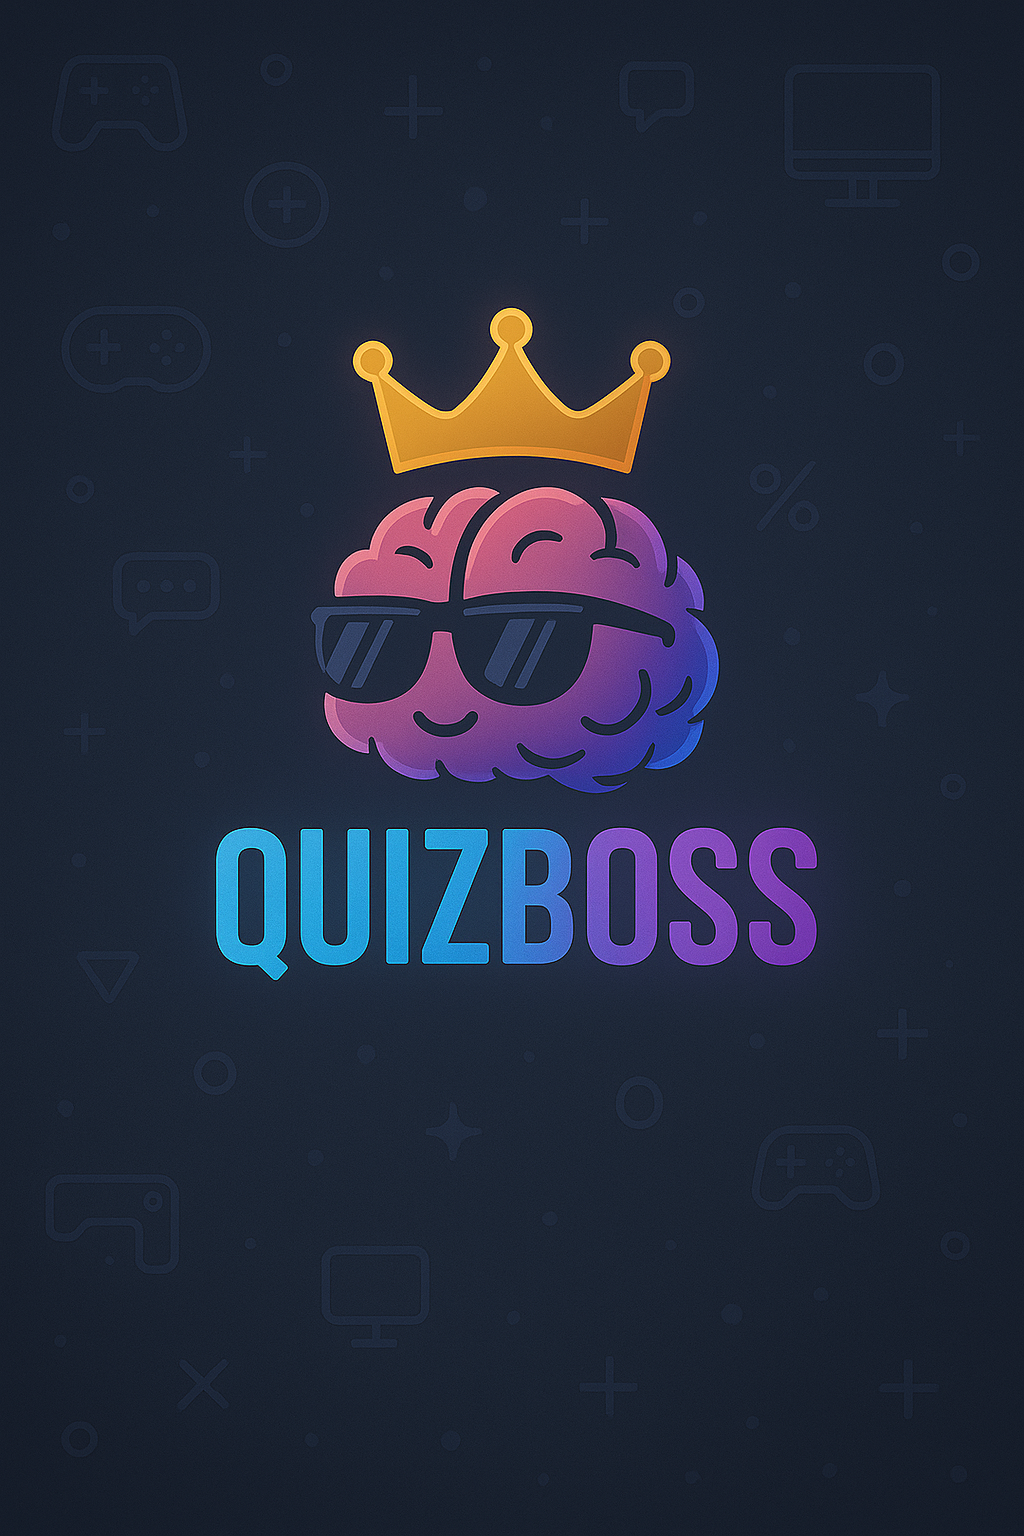
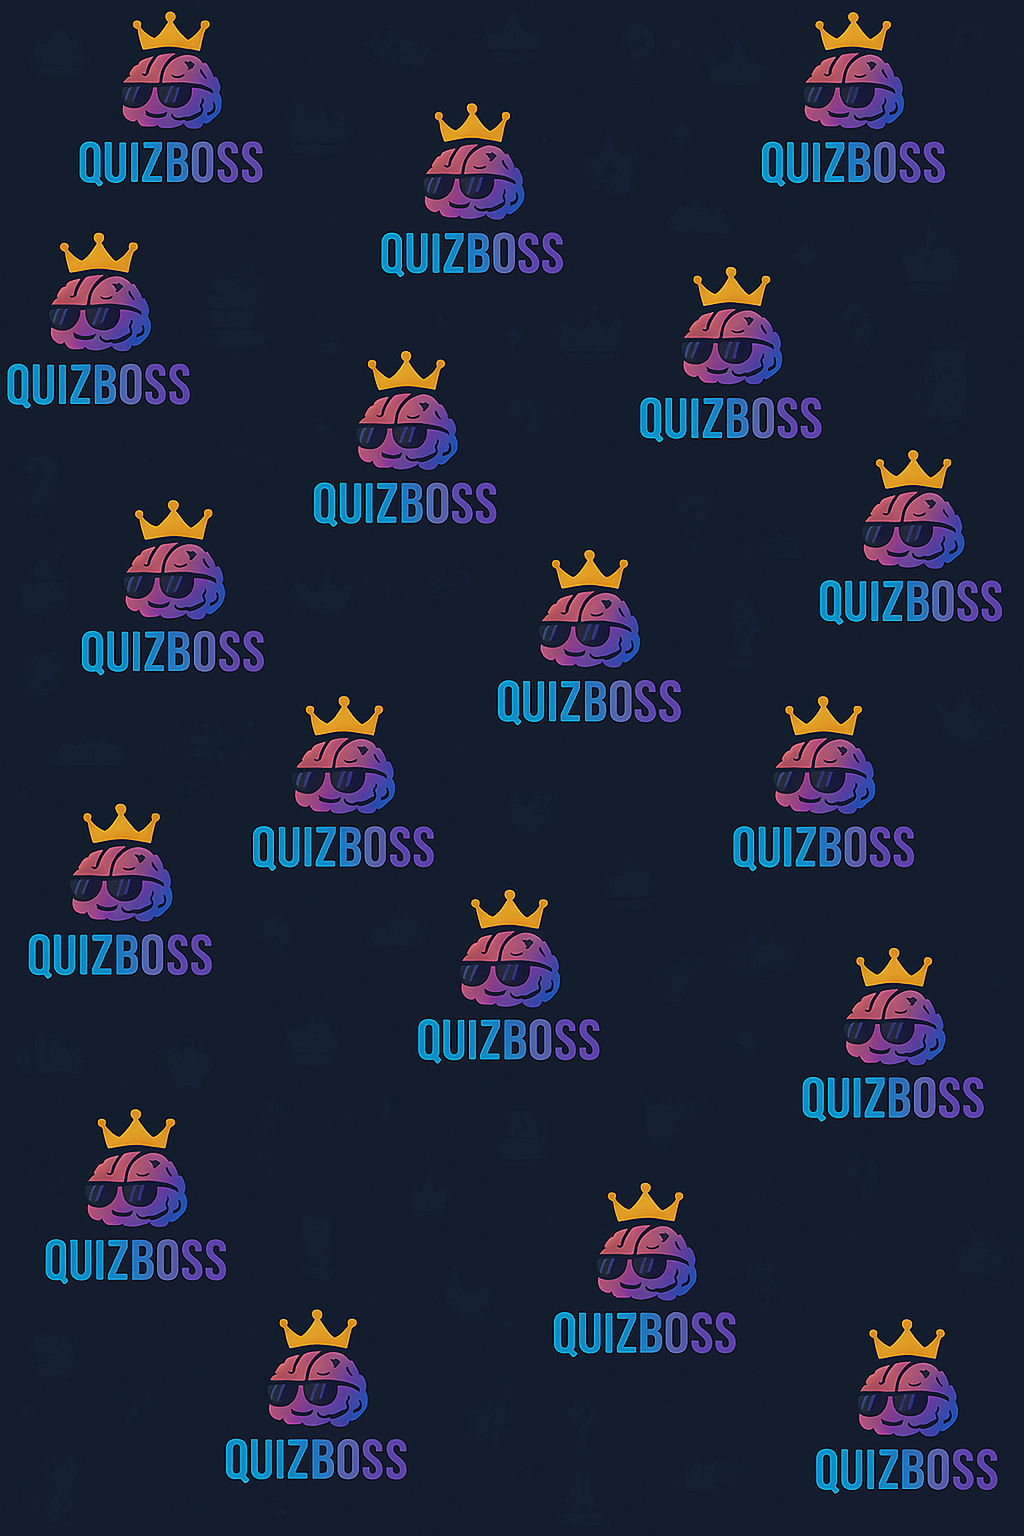
Cambios diseño Home

diff --git a/src/front/pages/Registro.jsx b/src/front/pages/Registro.jsx
@@ -1,52 +1,59 @@
-import React, { useState } from "react";
+import { useState, useEffect } from "react";
 import { useNavigate } from "react-router-dom";
 import "../css/Registro.css";
 
 export const Registro = () => {
-        const [email, setEmail] = useState("");
-        const [username, setUsername] = useState("");
-        const [password, setPassword] = useState("");
-        const [confirmPassword, setConfirmPassword] = useState("");
-        const [registroExitoso, setRegistroExitoso] = useState(false);
+    const [email, setEmail] = useState("");
+    const [username, setUsername] = useState("");
+    const [password, setPassword] = useState("");
+    const [confirmPassword, setConfirmPassword] = useState("");
+    const [registroExitoso, setRegistroExitoso] = useState(false);
 
-        const navigate = useNavigate();
+    const navigate = useNavigate();
 
-        const handleSubmit = (e) => {
-                e.preventDefault();
+    useEffect(() => {
+        document.body.classList.add("home-background");
 
-                if (password !== confirmPassword) {
-                        alert("Las contraseñas no coinciden");
-                        return;
-                }
+        return () => {
+            document.body.classList.remove("home-background");
+    };
+  }, []);
 
-                //fetch(`${import.meta.env.VITE_BACKEND_URL}/api/signup`, {
-                fetch(`${import.meta.env.VITE_BACKEND_URL.replace(/\/$/, '')}/api/signup`, {
-                        method: "POST",
-                        headers: {
-                                "Content-Type": "application/json"
-                        },
-                        body: JSON.stringify({
-                                email: email,
-                                user_name: username,
-                                password: password,
-                                ranking_user: 0,
-                                avatar: "./public/avatars/2.PNG", //Pendiente de revisión
-                                experiencia: 0
-                        })
+    const handleSubmit = (e) => {
+        e.preventDefault();
+
+        if (password !== confirmPassword) {
+                alert("Las contraseñas no coinciden");
+                return;
+        }
+
+        fetch(`${import.meta.env.VITE_BACKEND_URL.replace(/\/$/, '')}/api/signup`, {
+                method: "POST",
+                headers: {
+                        "Content-Type": "application/json"
+                },
+                body: JSON.stringify({
+                        email: email,
+                        user_name: username,
+                        password: password,
+                        ranking_user: 0,
+                        avatar: "./public/avatars/2.PNG", //Pendiente de revisión
+                        experiencia: 0
                 })
-                        .then((res) => {
-                                if (!res.ok) throw new Error("Error en el registro");
-                                return res.json();
-                        })
-                        .then((data) => {
-                                console.log("Usuario registrado:", data);
-                                setRegistroExitoso(true);
-                        })
-                        .catch((err) => {
-                                console.error("Error al registrar:", err);
-                                alert("Hubo un error al registrar el usuario");
-                        });
-        };
+        })
+                .then((res) => {
+                        if (!res.ok) throw new Error("Error en el registro");
+                        return res.json();
+                })
+                .then((data) => {
+                        console.log("Usuario registrado:", data);
+                        setRegistroExitoso(true);
+                })
+                .catch((err) => {
+                        console.error("Error al registrar:", err);
+                        alert("Hubo un error al registrar el usuario");
+                });
+};
 
         if (registroExitoso) {
                 return (

diff --git a/src/front/index.css b/src/front/index.css
@@ -23,68 +23,19 @@ body.dark {
   background-position: cover;
 }
 
-.container {
-  text-align: center;
-  max-width: 600px;
-  padding: 20px;
-  background-color: #2c3e3a56;
-  border-radius: 12px;
-  box-shadow: 0 0 15px rgba(0, 0, 0, 0.3);
+body.dark.home-background,
+body.light.home-background {
+  background-image: url(assets/img/modoclaro.png); 
+  margin: 0;
+  padding: 0;
+  min-height: 100vh;
+  background-size: cover;
+  background-position: center center;
+  background-repeat: no-repeat;
+  background-attachment: fixed;
 }
 
-.logo {
-  width: 150px;
-  height: auto;
-  margin-bottom: 20px;
-  border-radius: 10px;
+body.dark.home-background {
+  background-image: url(assets/img/modooscuro.png);
 }
 
-h1 {
-  font-size: 2rem;
-  color: #D6B770;
-  margin-bottom: 10px;
-}
-
-.highlight {
-  color: #9170CB;
-}
-
-.auth-buttons {
-  display: flex;
-  flex-direction: column;
-  gap: 10px;
-  margin: 20px 0;
-}
-
-.auth-buttons button {
-  padding: 12px 20px;
-  border: none;
-  border-radius: 8px;
-  font-size: 1rem;
-  background-color: #5EA9A7;
-  color: #23322D;
-  cursor: pointer;
-  transition: background-color 0.3s;
-}
-
-.auth-buttons button:hover {
-  background-color: #4e908f;
-}
-
-.instructions {
-  background-color: #3b4e4879;
-  padding: 15px;
-  border-radius: 10px;
-  color: #fff;
-}
-
-.instructions h2 {
-  color: #D6B770;
-  margin-bottom: 10px;
-}
-
-footer {
-  margin-top: 20px;
-  font-size: 0.8rem;
-  color: #ccc;
-}

diff --git a/src/front/css/Home.css b/src/front/css/Home.css
@@ -1,11 +1,11 @@
 body {
+  min-height: 100vh;
   display: flex;
   justify-content: center;
   align-items: center;
-  min-height: 100vh;
-  margin: 0;
   padding: 20px;
   box-sizing: border-box;
+  width: 100%;
 }
 
 .container {
@@ -19,10 +19,9 @@ body {
   box-sizing: border-box;
   text-align: center;
   padding: 30px;
-  background-color: rgba(44, 62, 58, 0.3);
+  background-color: rgba(44, 62, 58, 0.4);
   border-radius: 12px;
   box-shadow: 0 0 15px rgba(0, 0, 0, 0.3);
-  margin: 20px;
   position: relative; 
 }
 
@@ -97,4 +96,32 @@ footer {
   margin-top: 20px;
   font-size: 0.8rem;
   color: #ccc;
+}
+
+@media screen and (max-width: 480px) {
+  h1 {
+    font-size: 1.8rem;
+    flex-direction: column;
+    gap: 10px;
+    text-align: center;
+  }
+
+  .logo-inline {
+    width: 50px;
+    height: 50px;
+  }
+
+  .auth-buttons button {
+    font-size: 0.9rem;
+    padding: 10px 16px;
+  }
+
+  .title-container, .instructions {
+    width: 100%;
+    padding: 15px;
+  }
+
+  .container {
+    padding: 20px 15px;
+  }
 }

diff --git a/src/front/pages/Home.jsx b/src/front/pages/Home.jsx
@@ -1,7 +1,7 @@
 import quizBossLogo from '../assets/img/quizboss-logo.jpg';
 import "../css/Home.css";
 import { useNavigate } from "react-router-dom";
-import { useContext } from "react";
+import { useContext, useEffect } from "react";
 import { ThemeContext } from "../hooks/ThemeContext";
 
 export const Home = () => {
@@ -9,11 +9,17 @@ export const Home = () => {
 	const navigate = useNavigate(); 
 	const { theme,setTheme } = useContext(ThemeContext);
 
+	useEffect(() => {
+		document.body.classList.add("home-background");
+
+		return () => {
+			document.body.classList.remove("home-background");
+		};
+	}, []);
+	
+
 	return (
 		<div className="container">
-			<button className="theme-toggle" onClick={() => setTheme(theme === "light" ? "dark" : "light")}>
-				{theme === "light" ? "🌙 modo oscuro" : "☀ modo claro"}
-			</button>
         	<div className="title-container">
       			<h1>
         			Bienvenido a 

diff --git a/src/front/pages/Login.jsx b/src/front/pages/Login.jsx
@@ -1,4 +1,4 @@
-import { useState } from "react";
+import { useState, useEffect } from "react";
 import { useNavigate } from "react-router-dom";
 import "../css/Login.css";
 import { Link } from "react-router-dom";
@@ -11,6 +11,14 @@ export const Login = () => {
 
   const navigate = useNavigate();
   const { login } = useAuth();
+
+  useEffect(() => {
+    document.body.classList.add("home-background");
+
+    return () => {
+      document.body.classList.remove("home-background");
+    };
+  }, []);
 
   const handleLogin = async (e) => {
     e.preventDefault();

diff --git a/src/front/hooks/ThemeContext.jsx b/src/front/hooks/ThemeContext.jsx
@@ -6,7 +6,13 @@ export function ThemeProvider({ children }) {
   const [theme, setTheme] = useState(() => localStorage.getItem("theme") || "light");
 
   useEffect(() => {
-    document.body.className = theme;
+    // Elimina solo clases de tema anteriores
+    document.body.classList.remove("light", "dark");
+
+    // Añade la nueva clase de tema
+    document.body.classList.add(theme);
+
+    // Guarda en localStorage
     localStorage.setItem("theme", theme);
   }, [theme]);
 

diff --git a/src/front/css/Registro.css b/src/front/css/Registro.css
@@ -15,11 +15,11 @@
   border-radius: 12px;
   box-shadow: 0 0 15px rgba(0, 0, 0, 0.3);
   width: 100%;
-    max-width: 800px;
+  max-width: 800px;
   display: flex;
   flex-direction: column;
   gap: 20px;
-   margin: 0 auto;
+  margin: 0 auto;
 }
 
 .registro-card h1 {
